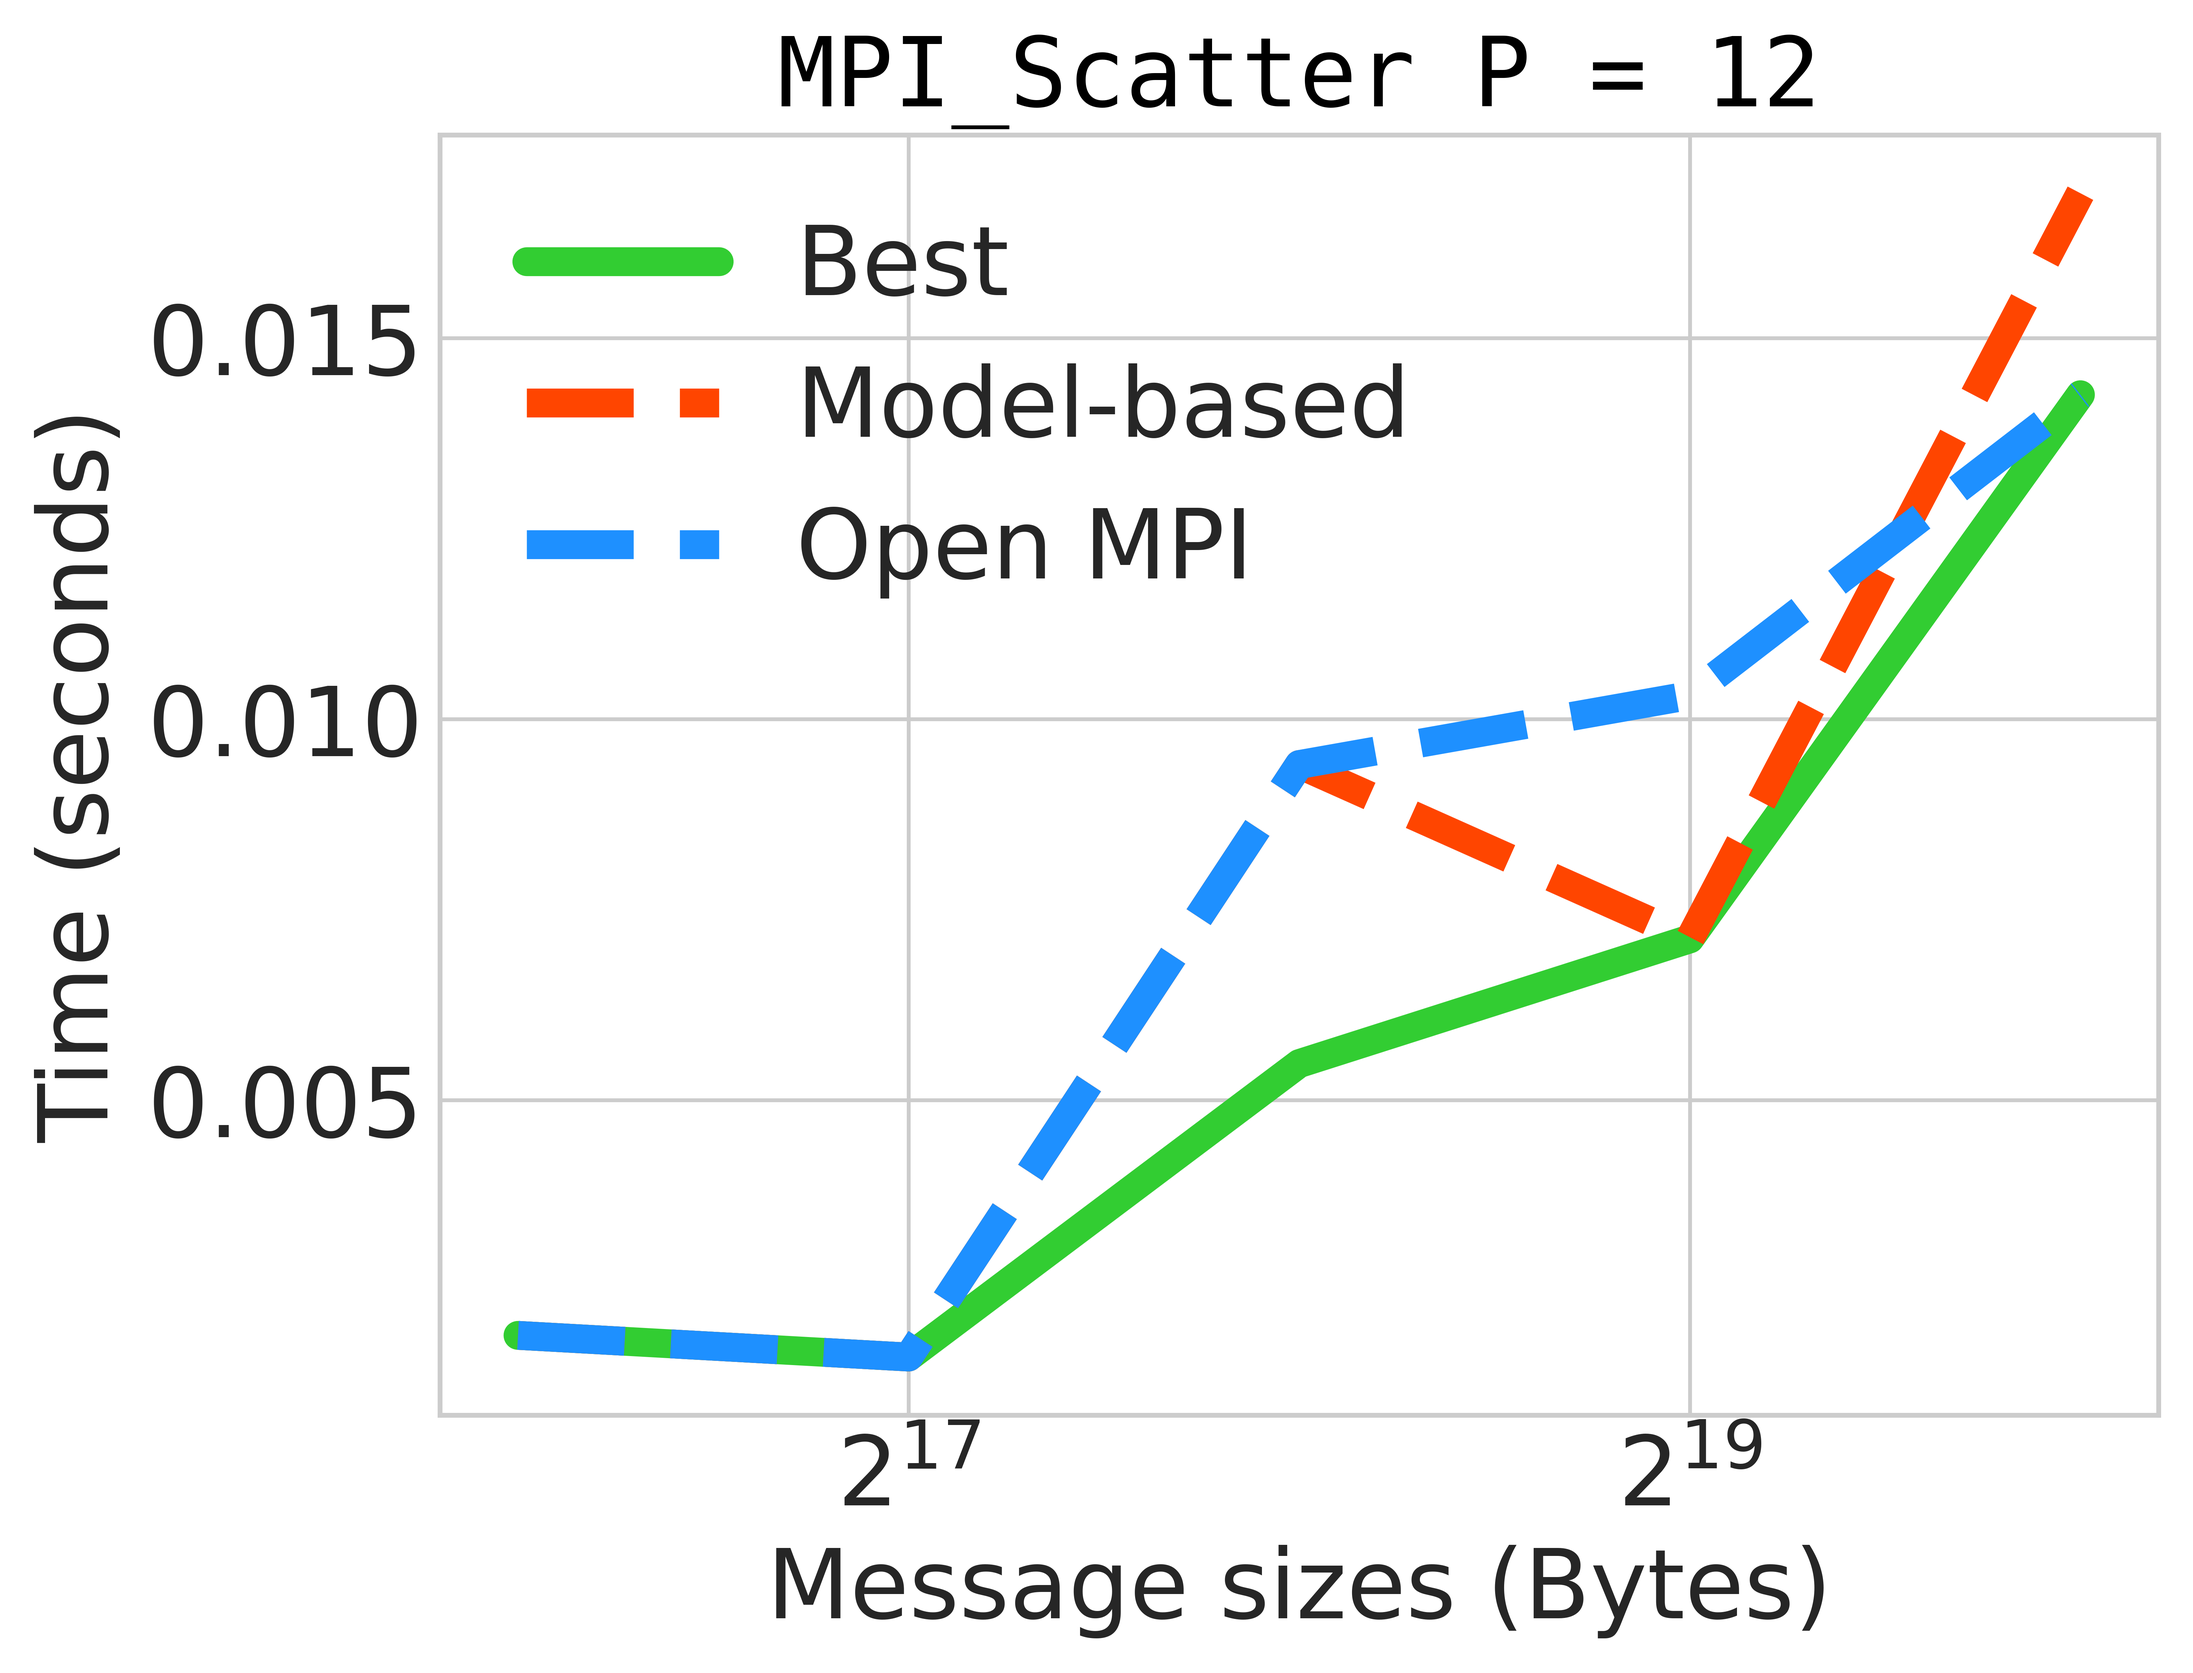
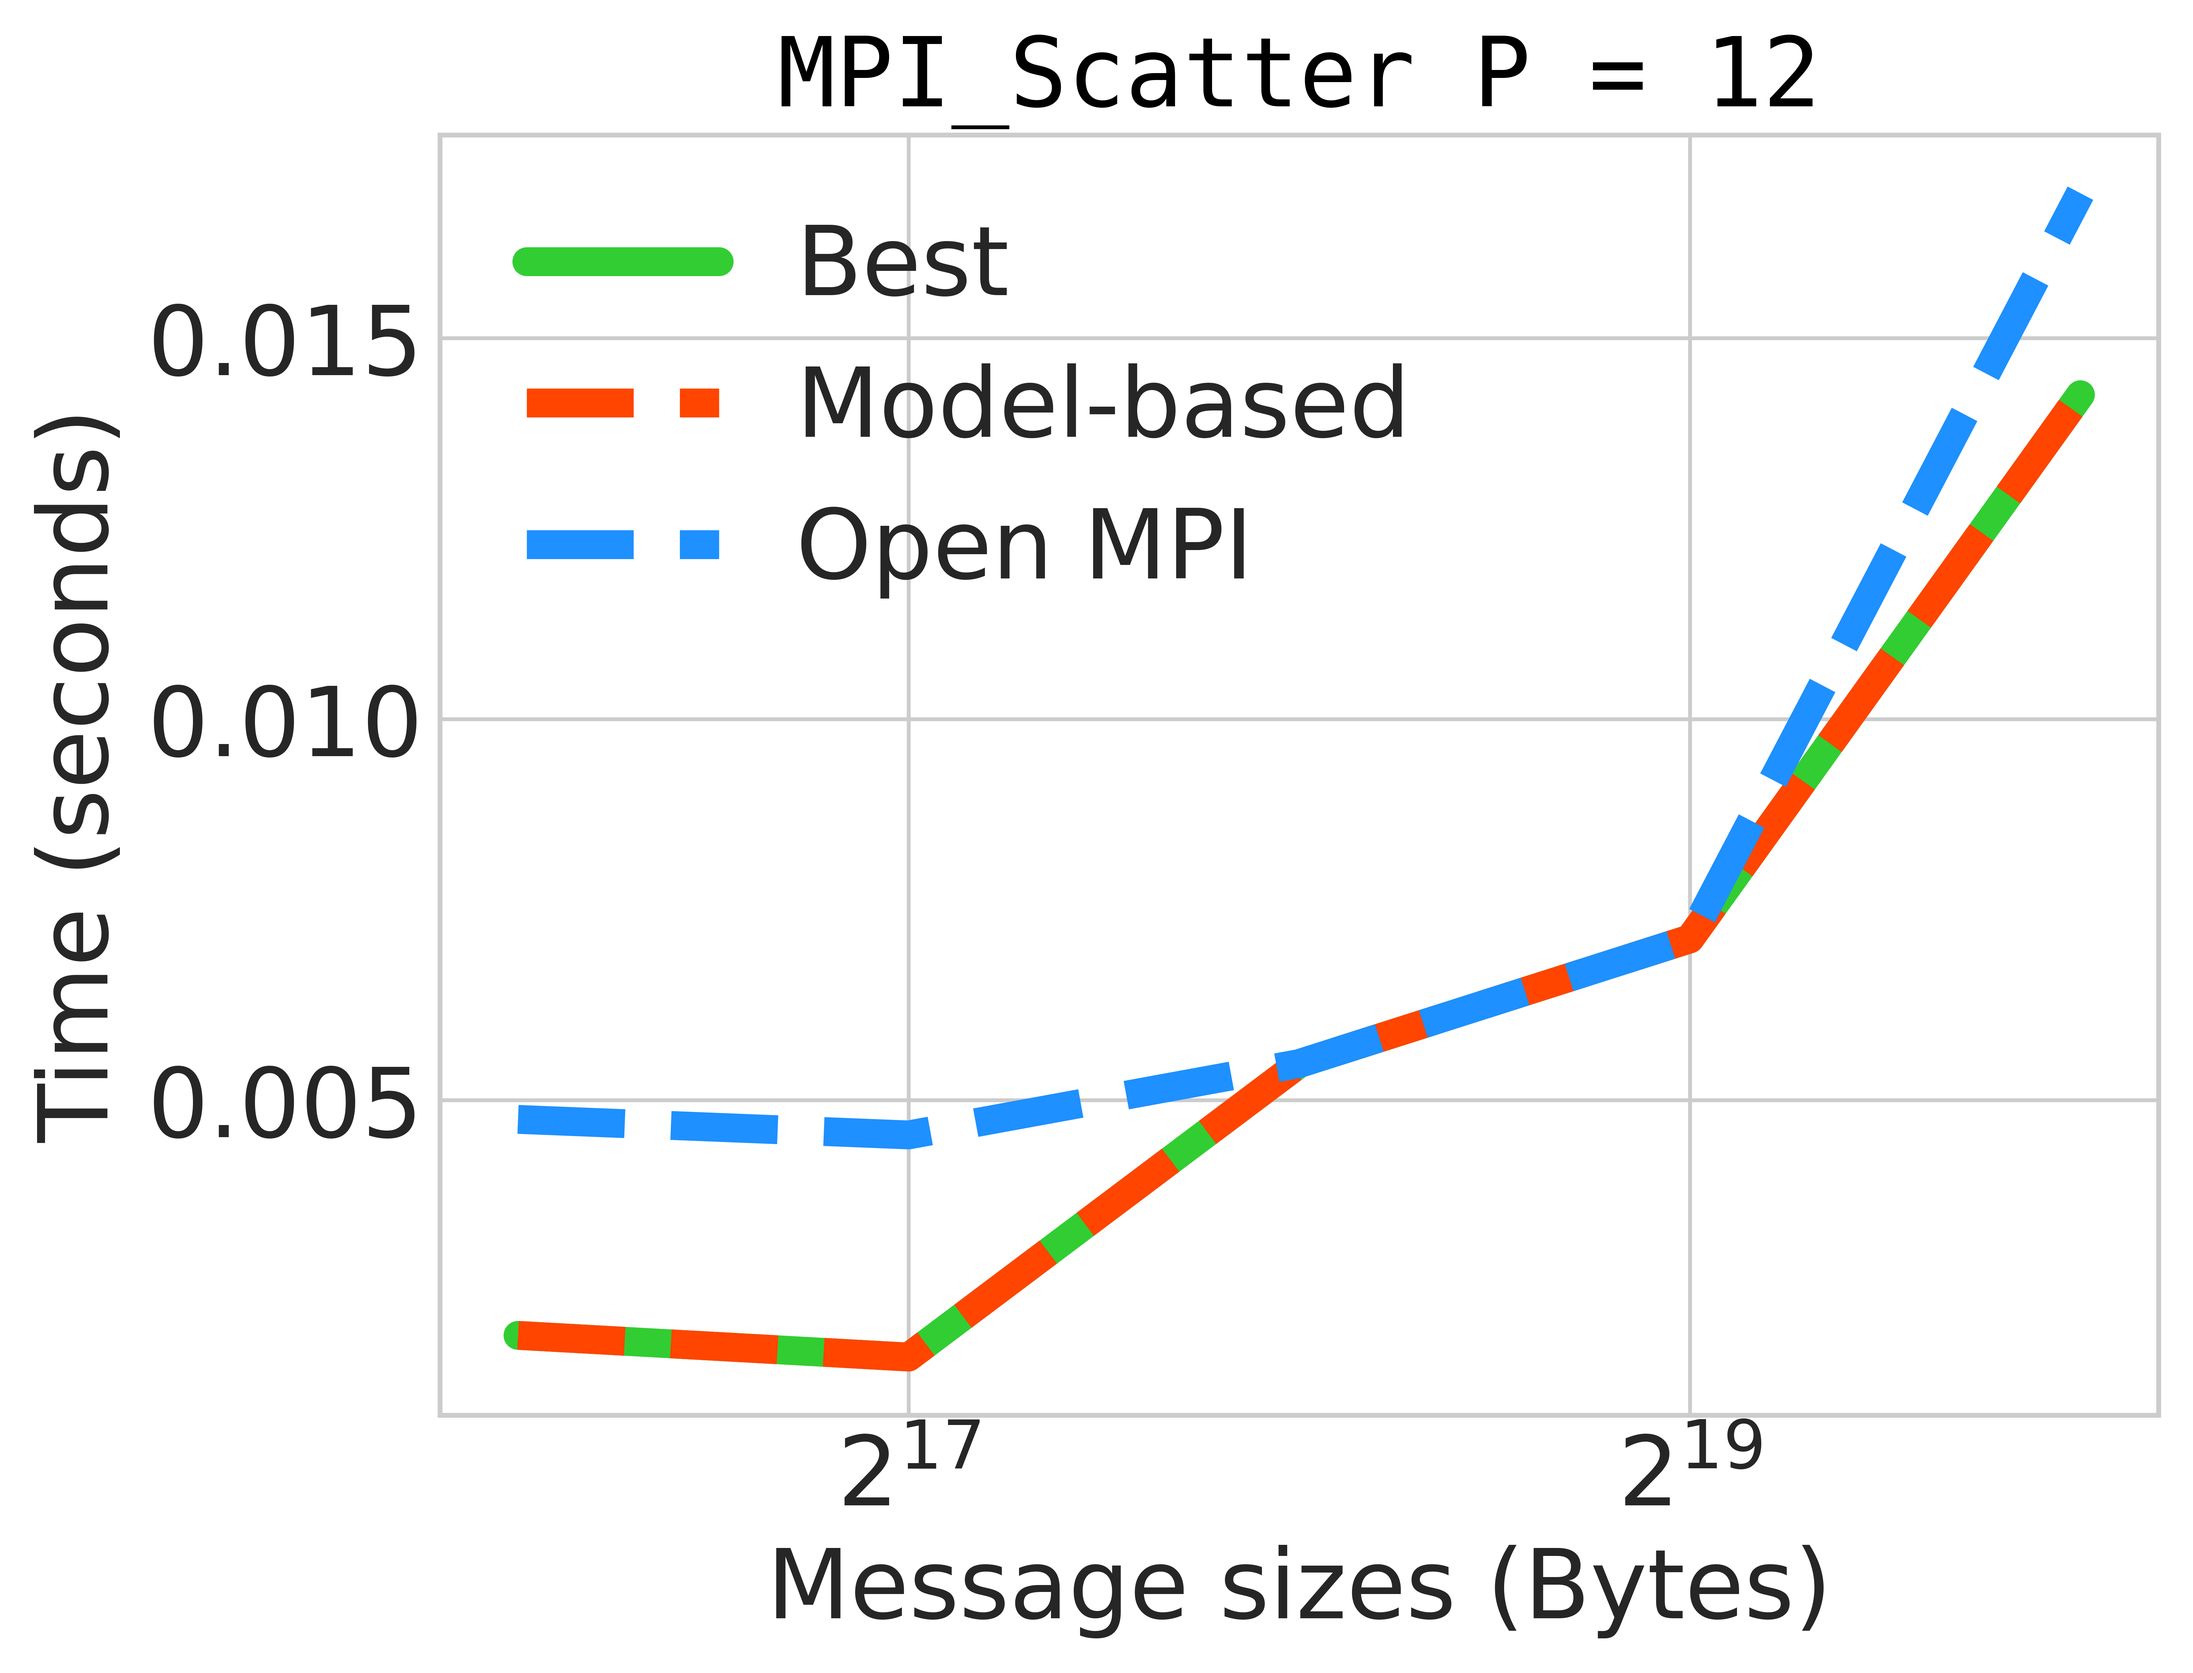
More images and comments

Changed region(s): [[0.2179, 0.1553, 0.9649, 0.7453], [0.2179, 0.7143, 0.498, 0.8385], [0.9338, 0.0932, 0.9649, 0.1553]]

diff --git a/src/modelling.py b/src/modelling.py
@@ -50,8 +50,8 @@ def lin_reg(X, Y):
         return -1
     X = np.array(X)
     Y = np.array(Y)
-    huber = HuberRegressor(fit_intercept=True, alpha=10.0,
-                           max_iter=100, epsilon=1.30)
+    huber = HuberRegressor(fit_intercept=True, alpha=40.0,
+                           max_iter=100, epsilon=6.00)
     huber.fit(X[:, np.newaxis], Y)
 
     return huber.intercept_, huber.coef_[0]
@@ -87,7 +87,7 @@ def extract_messages(data_list):
 
 
 def best_performance(data_list, alg_count):
-    # The function returns list of best performance algorithms for  message size
+    # The function returns list of best performance algorithms for  message size, obtained from results
     beg = 0
     best_perf_alg = []
     while beg < len(data_list):
@@ -209,9 +209,9 @@ def ompi_optimal_scatter_alg(data_list):
     for message_size in messages:
 
         if (communicator_size > small_comm_size) and (message_size < small_block_size):
-            opt_scatter_algorithm = 2
+            opt_scatter_algorithm = 1 #Binomial Algorithm
         else:
-            opt_scatter_algorithm = 1
+            opt_scatter_algorithm = 2 #Basic Linear
 
         analy_estimation.append((message_size, opt_scatter_algorithm))
 

diff --git a/src/algorithm_selection.py b/src/algorithm_selection.py
@@ -15,6 +15,11 @@ def print_data_row(row):
 
 def selection_experiments(args):
 
+    coll_algorithms = exp.scatter_algorithms
+    if args.ver == "2.1":
+        # Open MPI 2.1 does not contain Linear Non Blocking Algorithm
+        coll_algorithms.pop()
+
     if args.ver == "4.1":
         train_data_path = 'data/sonic_long_' + str(args.nump)
     else:
@@ -22,10 +27,6 @@ def selection_experiments(args):
     # converts data to list
     train_data_set = exp.exp_data_list(train_data_path)
 
-    coll_algorithms = exp.scatter_algorithms
-    if args.ver == "2.1":
-        # Open MPI 2.1 does not contain Linear Non Blocking Algorithm
-        coll_algorithms.pop()
 
     # Calculate hockney model parameters for each algorithm
     hockney_model_parameters = []
@@ -68,7 +69,7 @@ def selection_experiments(args):
 
     for analy_est, best_alg in zip(model_opt_alg, best_perf_alg):
         print(print_data_row(analy_est), ' -- ',
-              '{}%'.format(round(analy_est[3] / best_alg[3] * 100)))
+              '{}%'.format(round(analy_est[3] / best_alg[3] * 100))) #show performance degredation vs best algorithm
 
     print('----------------------------------------------------------------')
     print('OMPI Perf')
